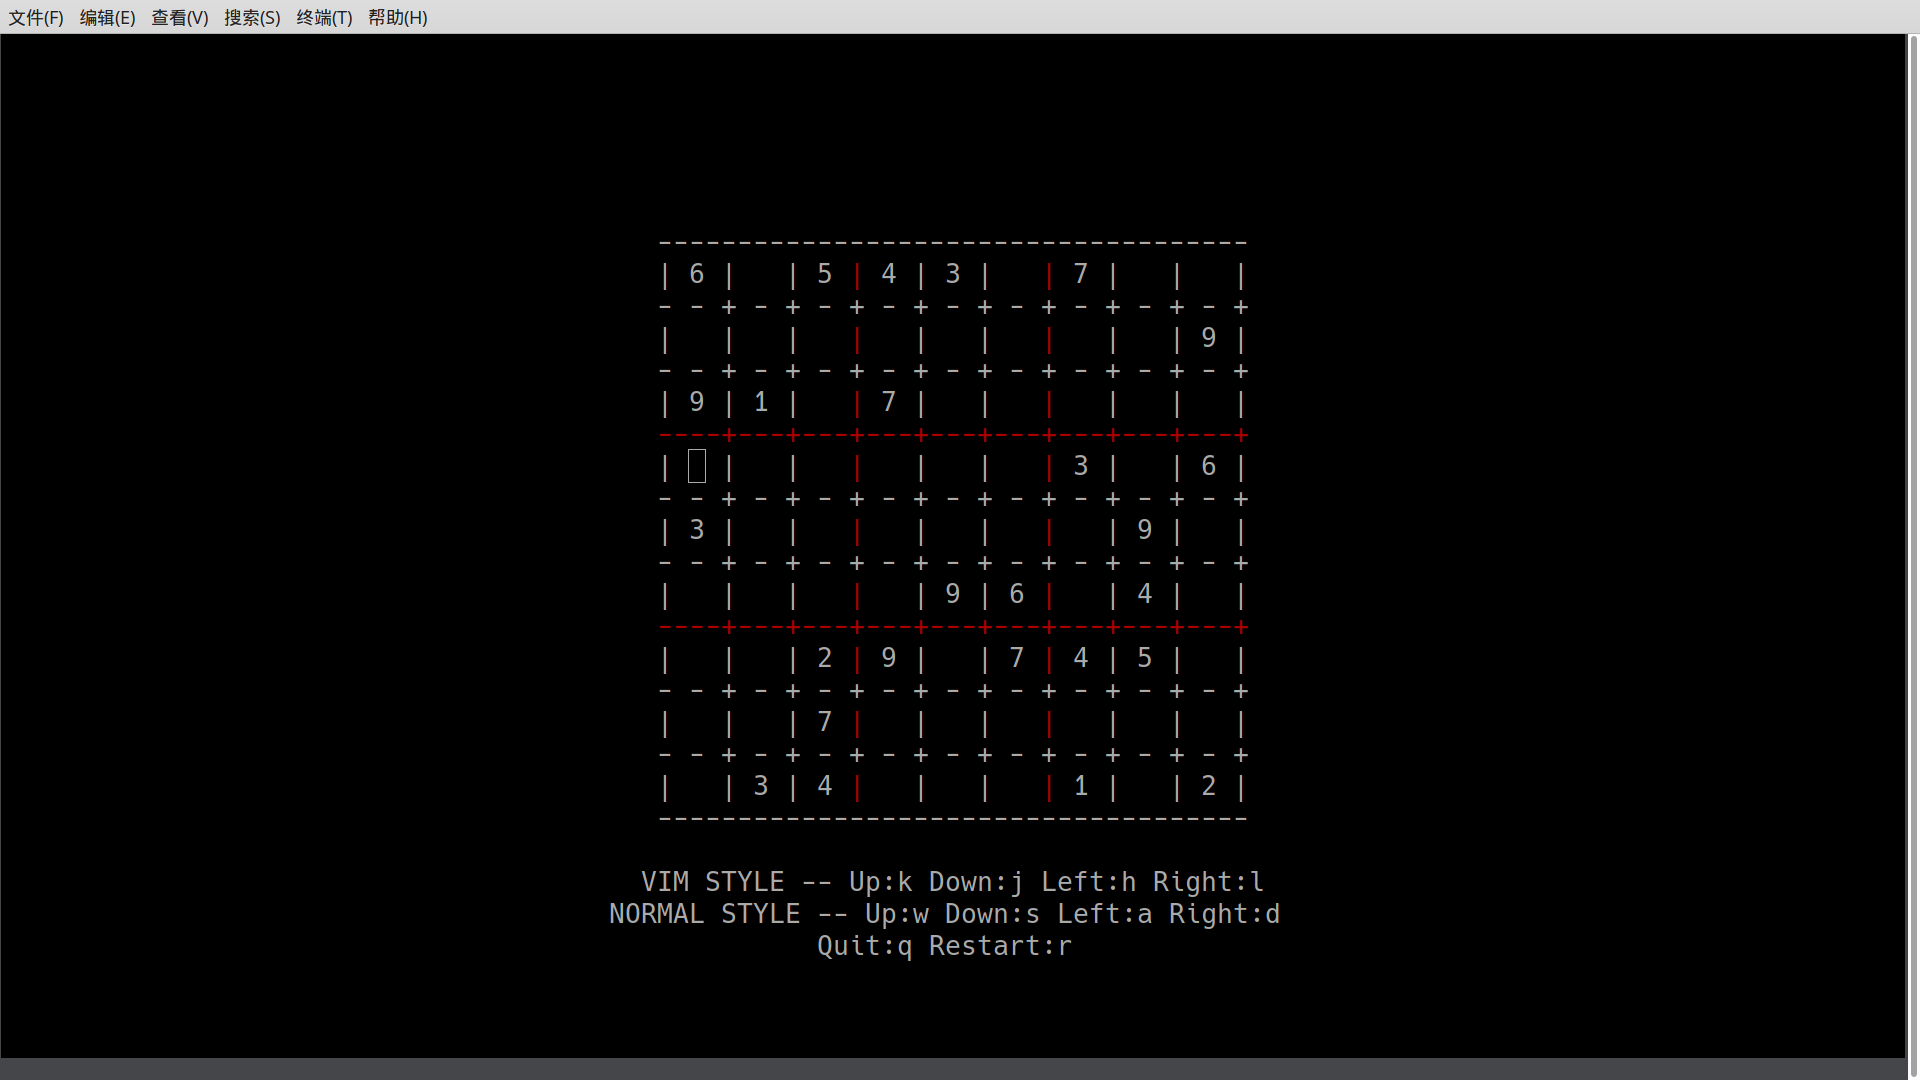
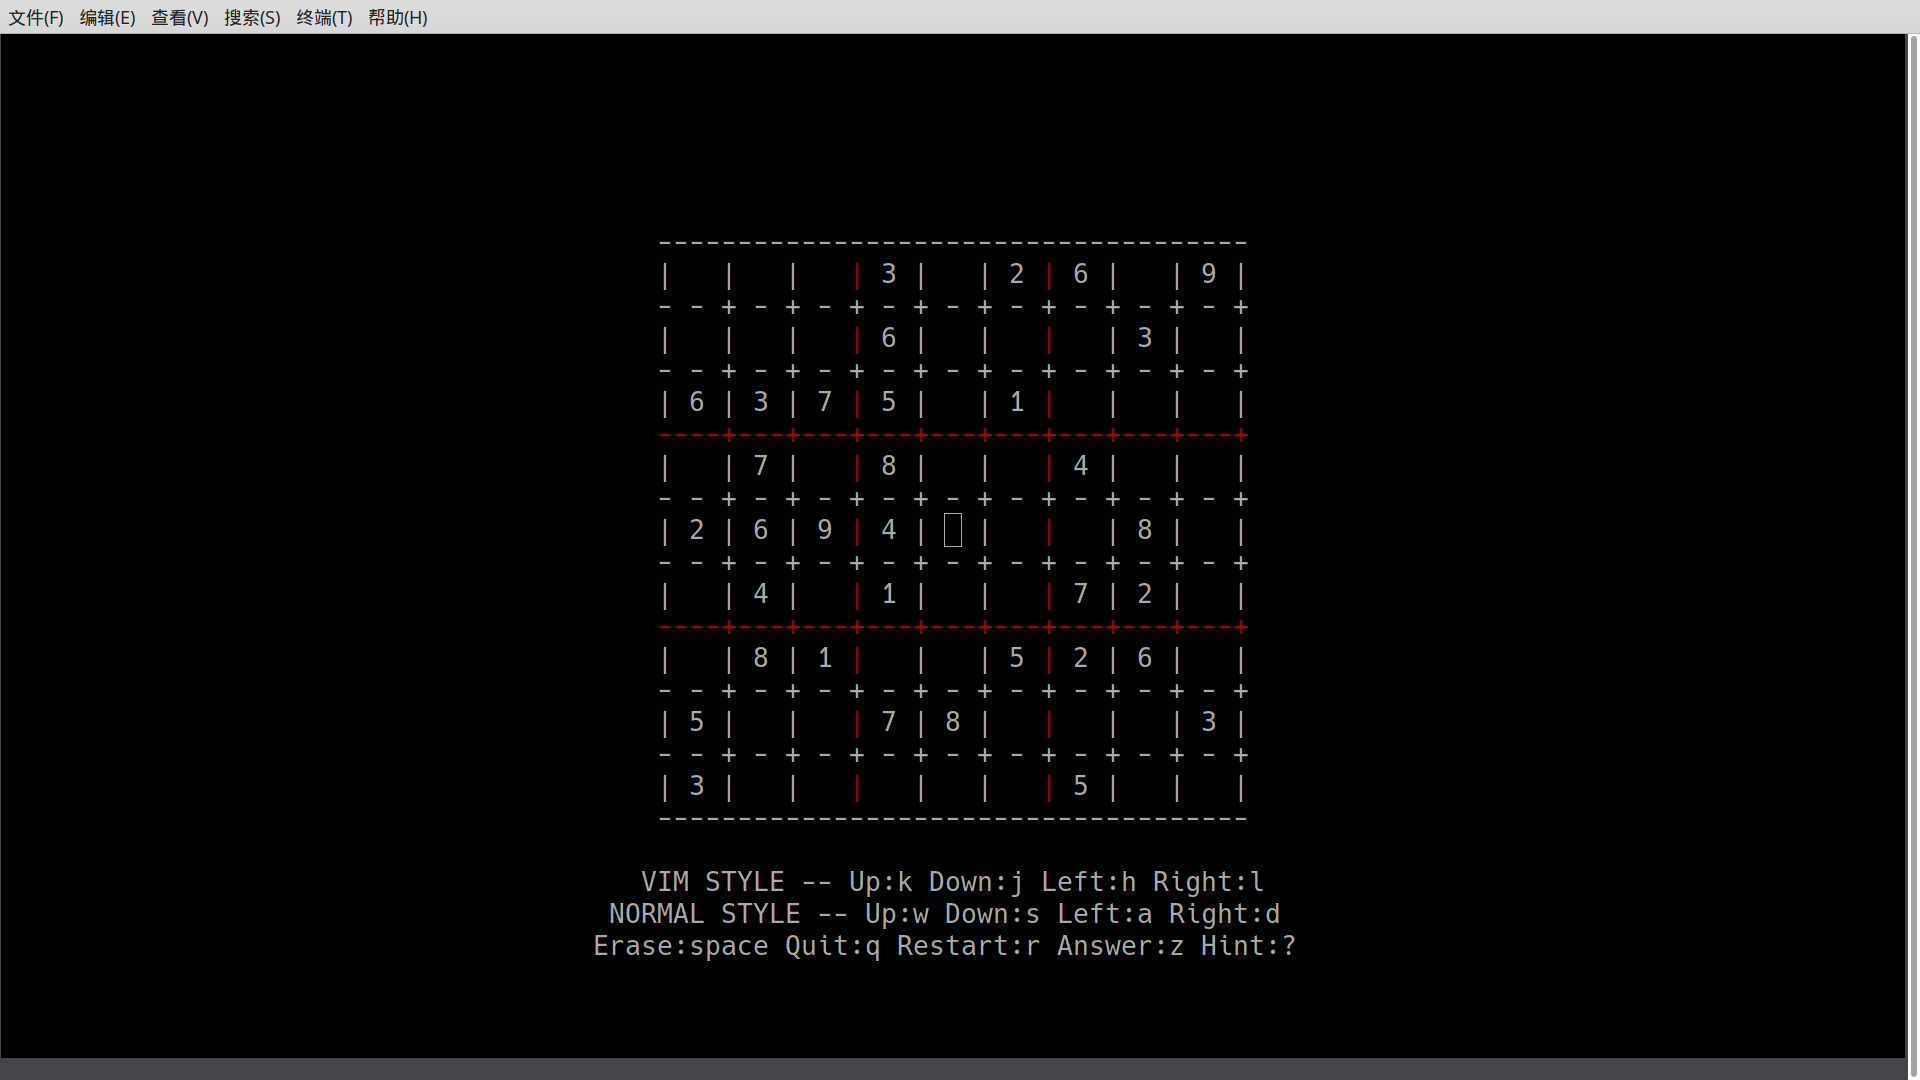
optimized

Changed region(s): [[0.3125, 0.8556, 0.6562, 0.8861]]

diff --git a/sudoku.cpp b/sudoku.cpp
@@ -258,7 +258,7 @@ void sudoku::draw()
     }
     string s1 = "VIM STYLE -- Up:k Down:j Left:h Right:l";
     string s2 = "NORMAL STYLE -- Up:w Down:s Left:a Right:d";
-    string s3 = "Quit:q Restart:r Answer:z Hint:?";
+    string s3 = "Erase:space Quit:q Restart:r Answer:z Hint:?";
     mvaddstr(draw_table_y_end+1,(getmaxx(stdscr) - s1.size())/2,s1.c_str());
     mvaddstr(draw_table_y_end+2,(getmaxx(stdscr) - s2.size())/2,s2.c_str());
     mvaddstr(draw_table_y_end+3,(getmaxx(stdscr) - s3.size())/2,s3.c_str());
